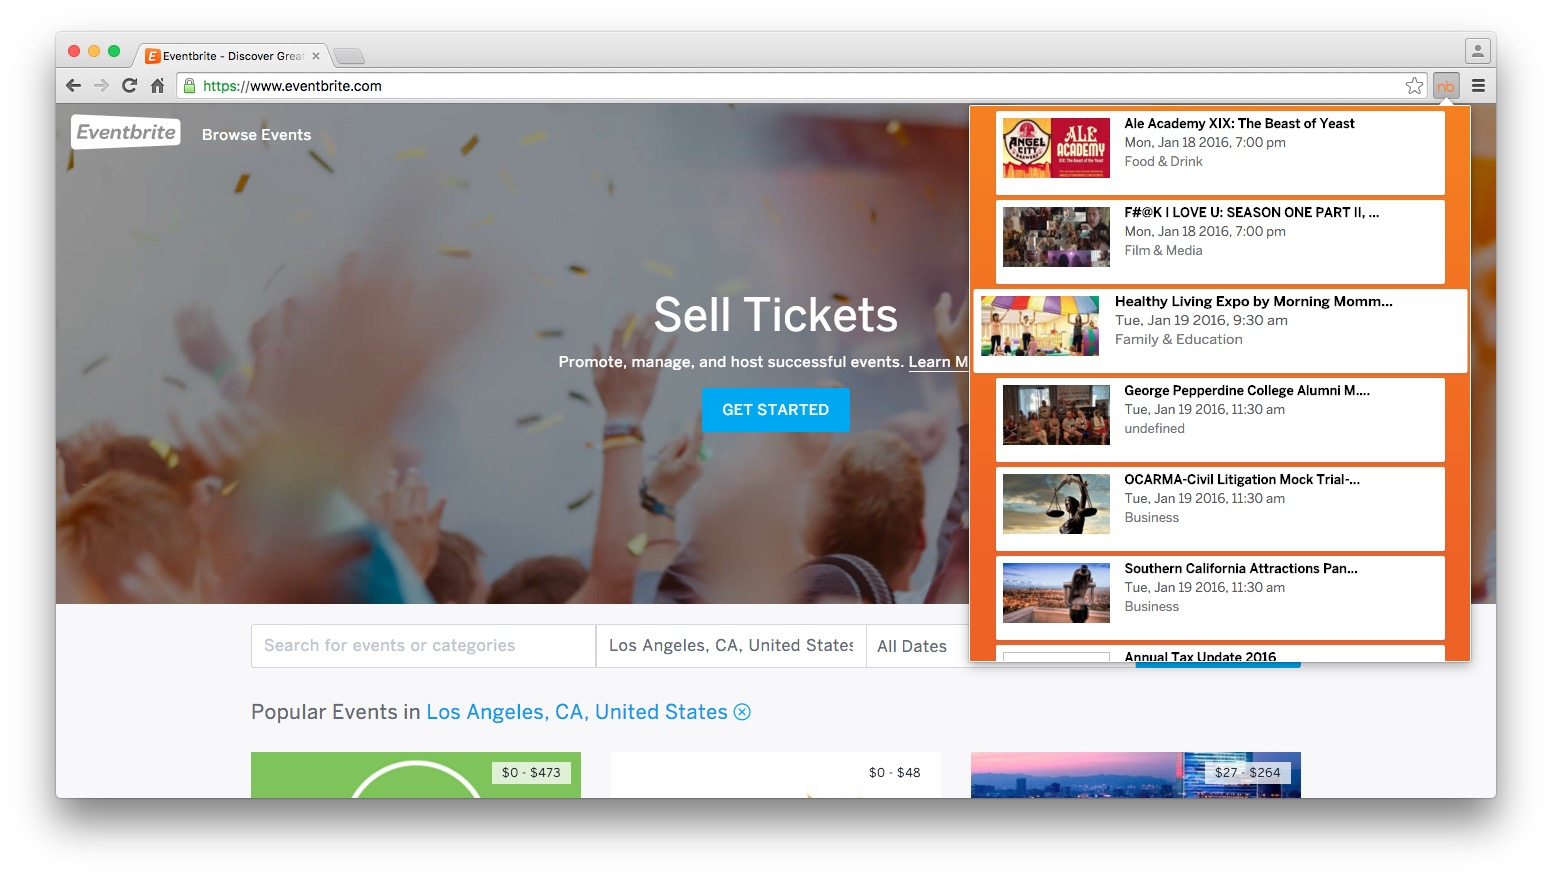
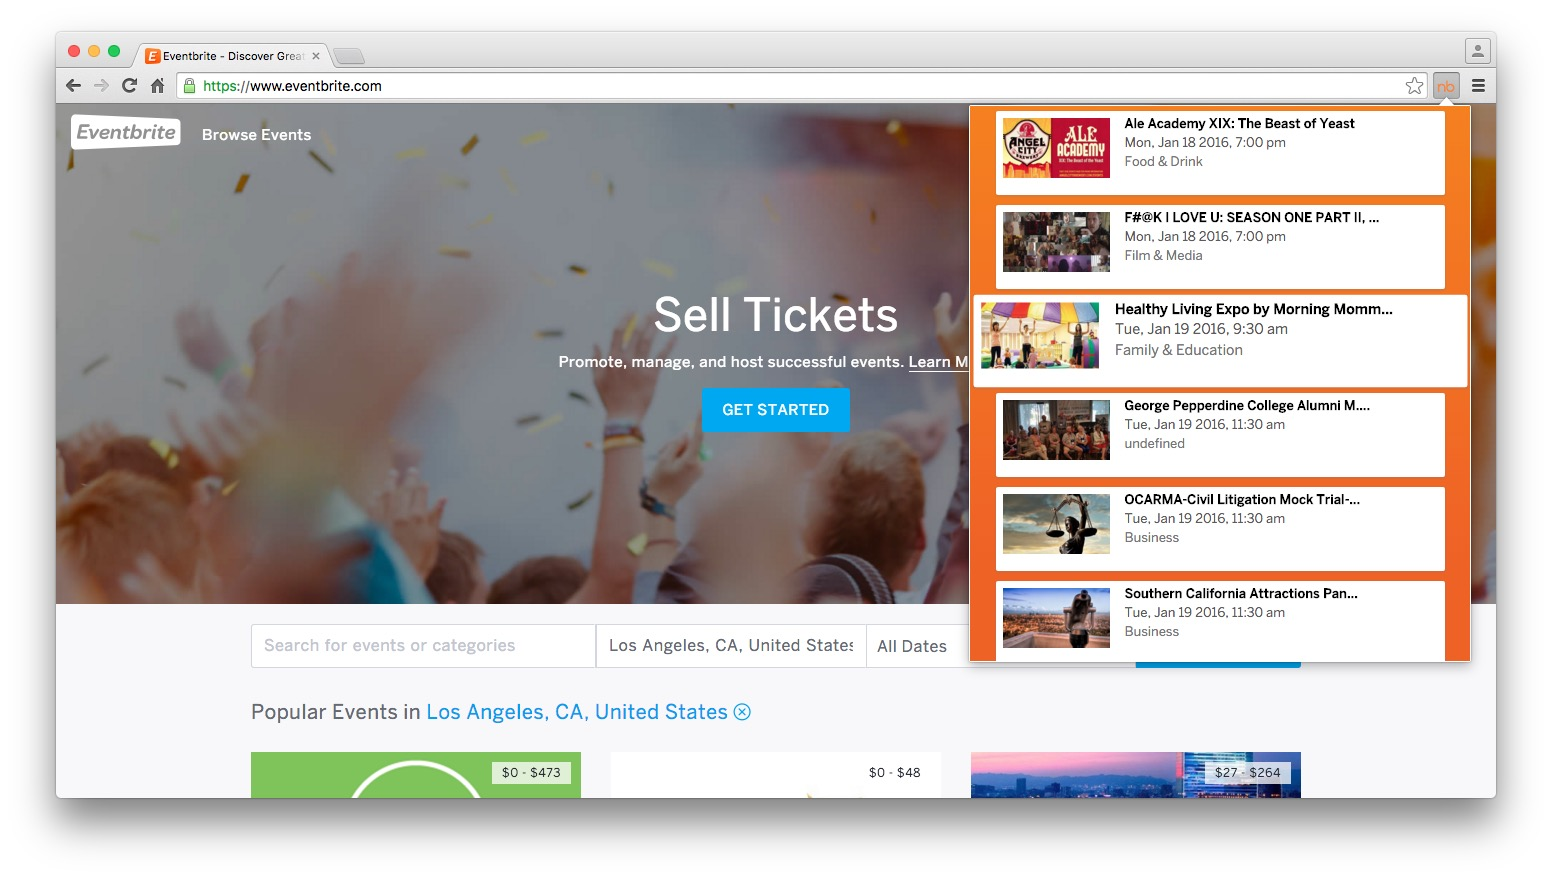
Fix css scale & new picture

Changed region(s): [[0.6186, 0.2153, 0.9588, 0.7688]]

diff --git a/stylesheets/event.css b/stylesheets/event.css
@@ -20,8 +20,7 @@
 
 .item:hover, .item:hover a {
 	/*background: #E6E6E6;*/
-    transform:  scaleY(1.1);
-    transform: scaleX(1.1);
+    transform:  scale(1.1);
 }
 
 body {
@@ -48,7 +47,7 @@ body {
 	text-overflow: ellipsis;
 	overflow: hidden;
     margin: 0 auto;
-    margin-bottom: 5px;
+    margin-bottom: 10px;
 	/* margin-right: 15px; */
     transition: all .2s ease-in-out;
     box-shadow: 0px 1px 1px 1px rgba(119, 119, 119, 0.2);
